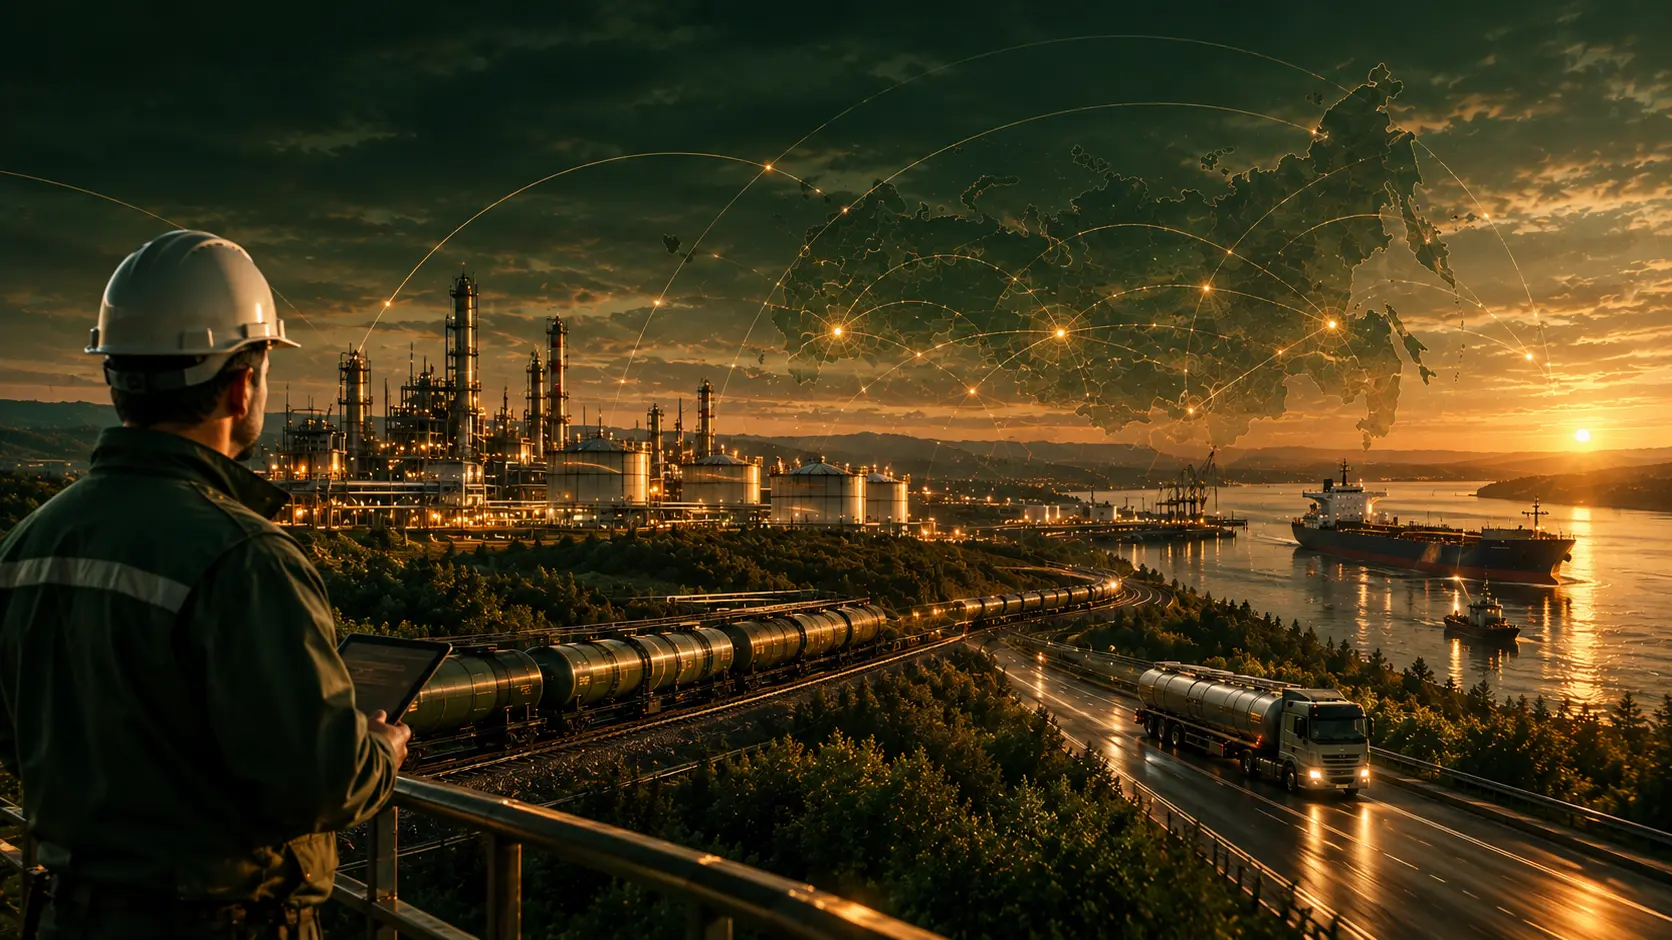
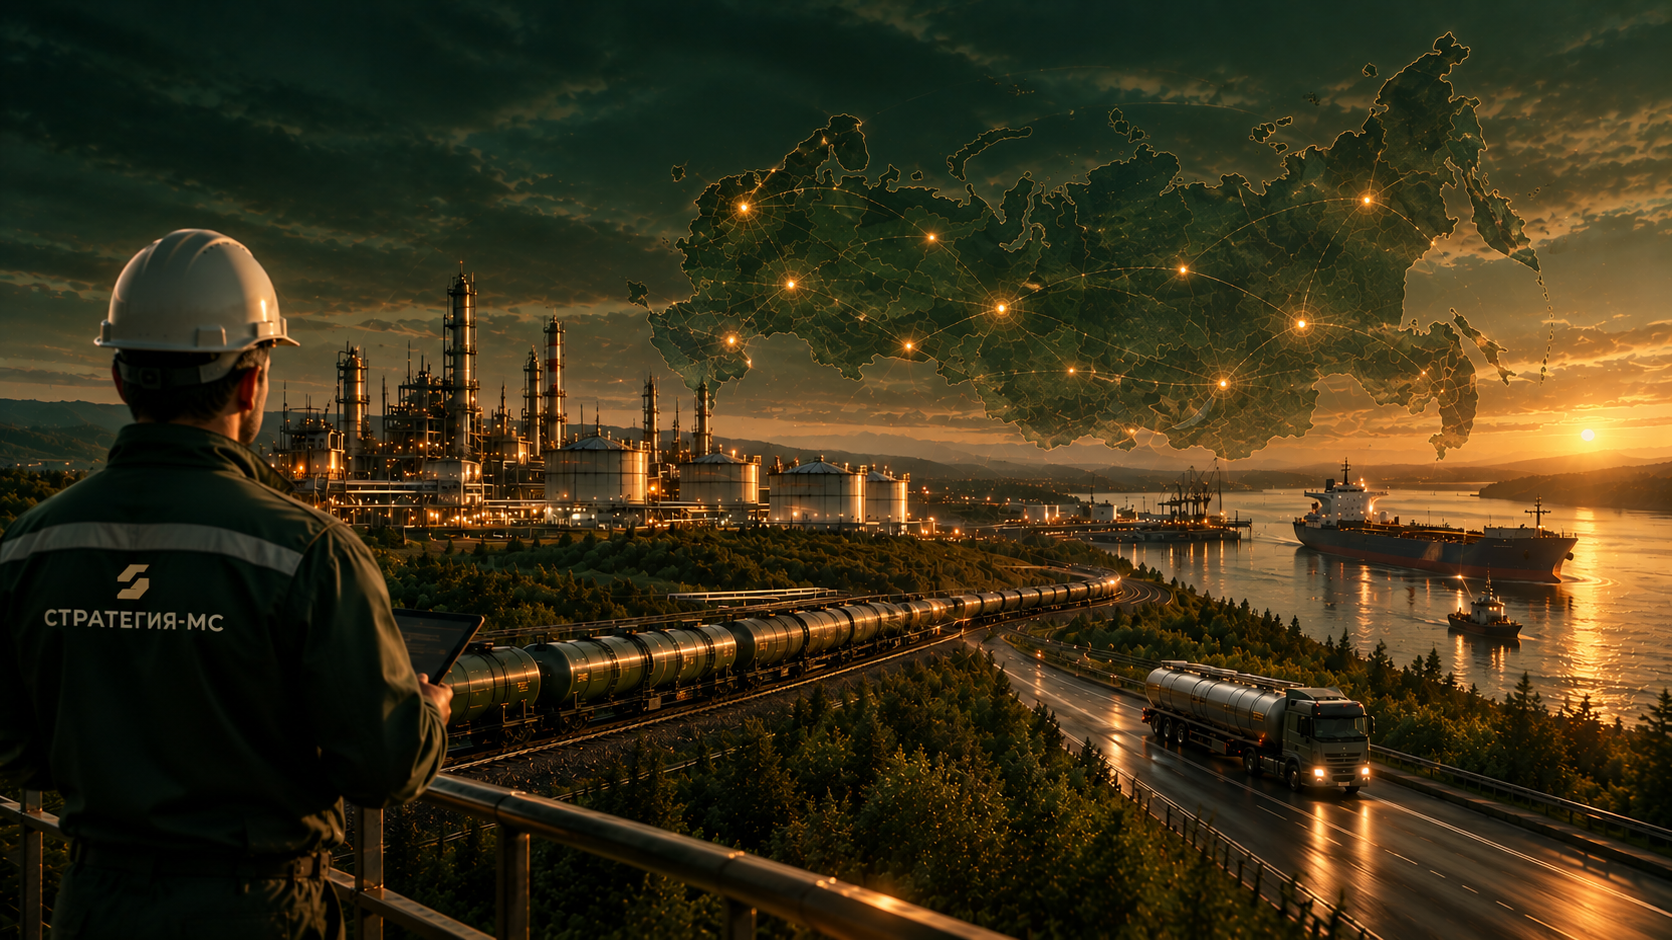
updated image

diff --git a/style.css b/style.css
@@ -460,9 +460,7 @@ ul {
     display: flex;
     align-items: flex-end;
     background: linear-gradient(180deg, #2c4a3a 0%, #7a5233 100%);
-    background-image:
-        linear-gradient(180deg, rgba(44, 74, 58, .35), rgba(122, 82, 51, .5)),
-        url("./assets/about.webp");
+    background-image: url("./assets/about.webp");
     background-size: cover;
     background-position: center;
     background-repeat: no-repeat;
